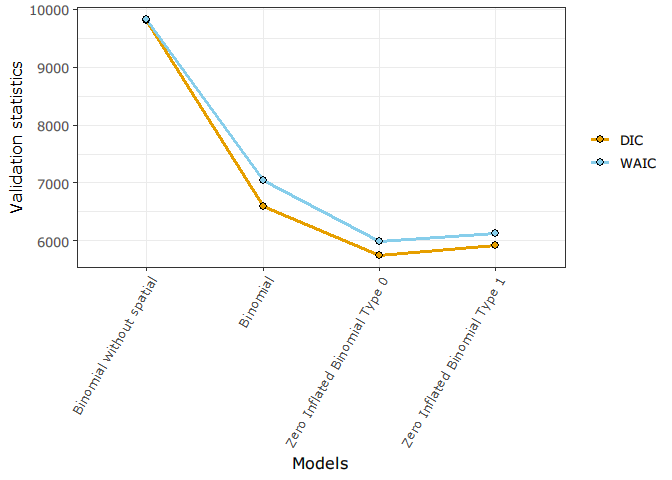
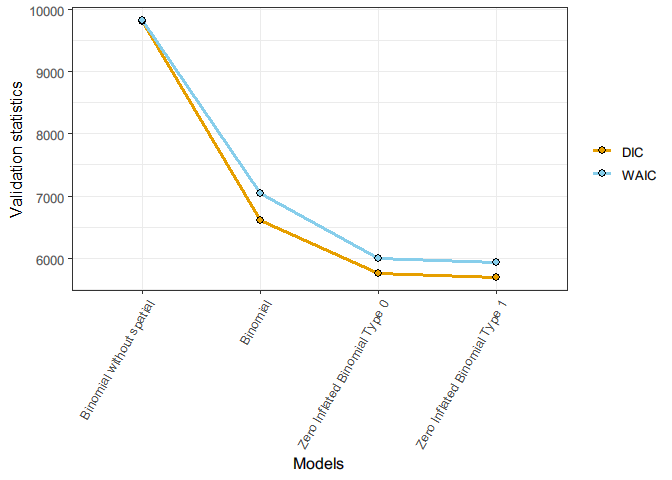
Update workbook 2 post peer review

diff --git a/codes/2.-model_selection_n_fitting.md b/codes/2.-model_selection_n_fitting.md
@@ -13,7 +13,7 @@ This script can be used for following purpose:
 ## Load libraries
 
 ``` r
-extrafont::loadfonts(device = "win")
+extrafont::loadfonts(device = "win", quiet = TRUE)
 ```
 
 ``` r
@@ -69,12 +69,11 @@ stack_data <- function(data, dp, cov_list){
 
 ``` r
 load("data/selected_covs_files_1km.RData")
+load("data/220511_output_model_selection.RData")
+
 data <- eth_prev2
 
 m <- getData(name = "GADM", country = "ETH", level = 0)
-# m <- m %>% st_as_sf()
-# pred_data <- selected_covariates
-# ra <- pred_data
 ```
 
 -   Test mesh for model selection
@@ -111,10 +110,6 @@ A <- inla.spde.make.A(mesh = mesh1, loc = as.matrix(coords)); dim(A)
 
 ``` r
 spde <- inla.spde2.matern(mesh1, alpha=2)
-# spde <- inla.spde2.pcmatern(mesh = mesh1, alpha = 2, constr = TRUE,
-#                             prior.range = c(15, 0.01), #P(range < 15000) = 0.01
-#                             prior.sigma = c(3, 0.01))  # P(sigma > 3) = 0.01
-
 iset <- inla.spde.make.index(name = "spatial.field", spde$n.spde)
 length(iset)
 ```
@@ -139,7 +134,6 @@ stk <- inla.stack(
 ``` r
 formula01 <-y ~ -1 + Intercept  # without spatial effect
 formula0 <-y ~ -1 + Intercept + f(spatial.field, model=spde)  # with spatial effect
-# + Soil_moisture + Flow_accumulation + near_river_DIVA + night_lights + mean_housing_2000_15 + Population_density + annual_diurnal_range + annual_precp + f(spatial.field, model=spde) 
 ```
 
 #### Binomial
@@ -164,7 +158,7 @@ model01.binom <- inla(formula01,
 toc()
 ```
 
-    ## 0.95 sec elapsed
+    ## 5.09 sec elapsed
 
 -   With spatial effect
 
@@ -186,7 +180,7 @@ model.binom <- inla(formula0,
 toc()
 ```
 
-    ## 7.37 sec elapsed
+    ## 21.79 sec elapsed
 
 #### Zero inflated binomial type I
 
@@ -208,7 +202,7 @@ model.zib0 <- inla(formula0,
 toc()
 ```
 
-    ## 4.98 sec elapsed
+    ## 21.99 sec elapsed
 
 #### Zero inflated binomial type II
 
@@ -231,7 +225,7 @@ model.zib1 <- inla(formula0,
 toc()
 ```
 
-    ## 26 sec elapsed
+    ## 123.22 sec elapsed
 
 ``` r
 model_stats <- tibble(Models = c("Binomial without spatial","Binomial", "Zero Inflated Binomial Type 0",
@@ -245,9 +239,9 @@ model_stats
     ##   Models                          DIC  WAIC
     ##   <chr>                         <dbl> <dbl>
     ## 1 Binomial without spatial      9807. 9817.
-    ## 2 Binomial                      6601. 7037.
+    ## 2 Binomial                      6602. 7037.
     ## 3 Zero Inflated Binomial Type 0 5747. 5991.
-    ## 4 Zero Inflated Binomial Type 1 5917. 6126.
+    ## 4 Zero Inflated Binomial Type 1 5692. 5932.
 
 ``` r
 model_stats_long <- model_stats %>% mutate(Models = as_factor(Models)) %>%
@@ -262,7 +256,7 @@ p <- ggplot(model_stats_long, aes(x=Models, y=values, group=validation_stats)) +
   scale_linetype_manual(values=c("solid", "solid")) +
   scale_color_manual(values = c("#E69F00", "skyblue")) +
   scale_fill_manual(values = c("#E69F00", "skyblue")) +
-theme_bw(base_family = "Verdana", base_size = 12) +
+theme_bw(base_family = "Arial", base_size = 12) +
   labs(y = "Validation statistics", color = "", linetype = "", fill = "") + theme(axis.text.x = element_text(angle = 60, hjust = 1)) #+ facet_wrap(~validation_stats, scales = "free") +
 p
 ```
@@ -399,11 +393,21 @@ for (i in 1:length(meshes)) {
   cat("\nIteration = ", i, "\n")
   print(Sys.time() - old)
 }
+```
 
+``` r
 df_1
 ```
 
-## Selection of environmental variables
+    ##   X Meshes      DIC     WAIC time_taken number_p
+    ## 1 1      1 5685.003 5925.979   1.215423      878
+    ## 2 2      2 4867.679 5060.077   2.643428     1827
+    ## 3 3      3 4566.985 4721.513  49.640810    27882
+    ## 4 4      4 4892.684 5074.225   3.377581     2004
+    ## 5 5      5 4572.737 4710.778   3.679938     3931
+    ## 6 6      6 4891.325 5104.871   5.327762     3197
+
+-   Mesh 5 selected ## Selection of environmental variables
 
 ``` r
 mesh <- mesh5
@@ -506,15 +510,7 @@ for(i in 1:length(covs_comb)){
 }
 ```
 
-    ## ========================================
-    ## Iteration =  1 
-    ## Time difference of 1.618573 mins
-    ## ========================================
-    ## Iteration =  2 
-    ## Time difference of 2.953607 mins
-
 ``` r
-model_selection <- data.frame(model_selection)
 model_selection
 ```
 
@@ -522,8 +518,8 @@ model_selection
     ## 1                                     slope + isothermality + precp_seasonality + NDVI_2003_11 + Population_density + dist_river_DIVA
     ## 2 slope + isothermality + precp_seasonality + NDVI_2003_11 + Population_density + dist_river_DIVA + Flow_accumulation + Soil_moisture
     ##               waic              dic
-    ## 1 4857.92552043144 4688.15728872514
-    ## 2 4749.85963023276 4612.35880456245
+    ## 1 4857.92234362589 4688.15551464129
+    ## 2 4749.85859506809 4612.35812741616
 
 ## K-fold cross validation between the candidate models
 
@@ -546,13 +542,12 @@ data$PREV <- data$CASES/data$N
 
 ### Model validation
 
--   Output RMSE and correlation ceofficient
+-   Output RMSE and correlation coefficient
 -   Output validation data with observed and predicted values
 
 ``` r
 library(dismo)
 fold <- 10 # specify fold
-# model <- 2 # specify model
 variables = 2
 pb = txtProgressBar(min = 0, max = fold, initial = 0) 
 output <- matrix(ncol=variables+2)
@@ -594,7 +589,7 @@ for (j in 1:length(formula)) {
     validation$rmse = sqrt(mean(validation$res^2, na.rm=TRUE)) 
     validation$cor = cor(obs_prev, tmp.mean, 
                          use="pairwise.complete.obs",
-                         method="spearman")
+                         method="pearson")
     output <- bind_rows(output, (data.frame(Model = j, Fold = i, RMSE = validation$rmse, Correlation.coefficient = validation$cor))) 
     
     if(i == 1){
@@ -628,20 +623,20 @@ for (j in 1:length(formula)) {
     models
 
 ``` r
-load("data/211231_output_cross_val.RData")
-
 output %>% head()
 ```
 
-    ##   Model Fold      RMSE Correlation.coefficient
-    ## 2     1    1 0.1357886               0.6099237
-    ## 3     1    2 0.1119559               0.6410497
-    ## 4     1    3 0.1565031               0.6387597
-    ## 5     1    4 0.1394674               0.4973210
-    ## 6     1    5 0.1332283               0.6323068
-    ## 7     1    6 0.1169957               0.6370246
+    ##   Model Fold      RMSE Correlation.coefficient model_names
+    ## 2     1    1 0.1357886               0.6099237     Model 0
+    ## 3     1    2 0.1119559               0.6410497     Model 0
+    ## 4     1    3 0.1565031               0.6387597     Model 0
+    ## 5     1    4 0.1394674               0.4973210     Model 0
+    ## 6     1    5 0.1332283               0.6323068     Model 0
+    ## 7     1    6 0.1169957               0.6370246     Model 0
 
 ``` r
+output <- output %>% na.omit()
+
 object_cor_combined %>% head()
 ```
 
@@ -668,20 +663,20 @@ cor_coff <- output %>% mutate(model_names = fct_reorder(model_names, Correlation
   ggplot( aes(x=model_names, y=Correlation.coefficient, fill = model_names, alpha = 0.7)) +
     geom_boxplot(outlier.shape = NA, width = 0.6) +
     geom_point(shape = 21, fill = "white", color = "black", size = 2, alpha = 0.5) + #geom_jitter(color="black", size=2, alpha=0.9) +
-    theme_bw(base_family = "Verdana") +
+    theme_bw(base_family = "Arial") +
     theme(
       legend.position="none",
       plot.title = element_text(size=11)
     ) +
     xlab("Models") + ylab("Correlation coefficient") + ylim(c(0.3,.8))
 
-output$RMSE <- output$RMSE * 100  # multiplied as prevalence is expressed as percentage in the model output
+output$RMSE <- output$RMSE*100  # multiplied as prevalence is expressed as percentage in the model output
 
 RMSE <- output %>% mutate(model_names = fct_reorder(model_names, RMSE, .desc = T)) %>% 
   ggplot( aes(x=model_names, y=RMSE, fill = model_names, alpha = 0.7)) +
     geom_boxplot(outlier.shape = NA, width = 0.6) +
     geom_point(shape = 21, fill = "white", color = "black", size = 2, alpha = 0.5) + #geom_jitter(color="black", size=2, alpha=0.9) +
-    theme_bw(base_family = "Verdana") +
+    theme_bw(base_family = "Arial") +
     theme(
       legend.position="none",
       plot.title = element_text(size=11)
@@ -689,97 +684,11 @@ RMSE <- output %>% mutate(model_names = fct_reorder(model_names, RMSE, .desc = T
     xlab("Models") + ylab("RMSE") + ylim(c(8,16))
 
 CV_plot <- plot_grid(cor_coff, RMSE, nrow = 1, labels = "AUTO")
-```
 
-    ## Warning in grid.Call(C_stringMetric, as.graphicsAnnot(x$label)): font family
-    ## 'Verdana' not found in PostScript font database
-
-    ## Warning in grid.Call(C_stringMetric, as.graphicsAnnot(x$label)): font family
-    ## 'Verdana' not found in PostScript font database
-
-    ## Warning in grid.Call(C_stringMetric, as.graphicsAnnot(x$label)): font family
-    ## 'Verdana' not found in PostScript font database
-
-    ## Warning in grid.Call(C_stringMetric, as.graphicsAnnot(x$label)): font family
-    ## 'Verdana' not found in PostScript font database
-
-    ## Warning in grid.Call(C_stringMetric, as.graphicsAnnot(x$label)): font family
-    ## 'Verdana' not found in PostScript font database
-
-    ## Warning in grid.Call(C_stringMetric, as.graphicsAnnot(x$label)): font family
-    ## 'Verdana' not found in PostScript font database
-
-    ## Warning in grid.Call(C_stringMetric, as.graphicsAnnot(x$label)): font family
-    ## 'Verdana' not found in PostScript font database
-
-    ## Warning in grid.Call(C_stringMetric, as.graphicsAnnot(x$label)): font family
-    ## 'Verdana' not found in PostScript font database
-
-    ## Warning in grid.Call(C_stringMetric, as.graphicsAnnot(x$label)): font family
-    ## 'Verdana' not found in PostScript font database
-
-    ## Warning in grid.Call(C_stringMetric, as.graphicsAnnot(x$label)): font family
-    ## 'Verdana' not found in PostScript font database
-
-    ## Warning in grid.Call(C_stringMetric, as.graphicsAnnot(x$label)): font family
-    ## 'Verdana' not found in PostScript font database
-
-    ## Warning in grid.Call(C_stringMetric, as.graphicsAnnot(x$label)): font family
-    ## 'Verdana' not found in PostScript font database
-
-    ## Warning in grid.Call(C_stringMetric, as.graphicsAnnot(x$label)): font family
-    ## 'Verdana' not found in PostScript font database
-
-    ## Warning in grid.Call(C_stringMetric, as.graphicsAnnot(x$label)): font family
-    ## 'Verdana' not found in PostScript font database
-
-    ## Warning in grid.Call(C_stringMetric, as.graphicsAnnot(x$label)): font family
-    ## 'Verdana' not found in PostScript font database
-
-    ## Warning in grid.Call(C_stringMetric, as.graphicsAnnot(x$label)): font family
-    ## 'Verdana' not found in PostScript font database
-
-    ## Warning in grid.Call(C_stringMetric, as.graphicsAnnot(x$label)): font family
-    ## 'Verdana' not found in PostScript font database
-
-    ## Warning in grid.Call(C_stringMetric, as.graphicsAnnot(x$label)): font family
-    ## 'Verdana' not found in PostScript font database
-
-    ## Warning in grid.Call(C_stringMetric, as.graphicsAnnot(x$label)): font family
-    ## 'Verdana' not found in PostScript font database
-
-    ## Warning in grid.Call(C_stringMetric, as.graphicsAnnot(x$label)): font family
-    ## 'Verdana' not found in PostScript font database
-
-    ## Warning in grid.Call(C_stringMetric, as.graphicsAnnot(x$label)): font family
-    ## 'Verdana' not found in PostScript font database
-
-    ## Warning in grid.Call(C_stringMetric, as.graphicsAnnot(x$label)): font family
-    ## 'Verdana' not found in PostScript font database
-
-    ## Warning in grid.Call(C_stringMetric, as.graphicsAnnot(x$label)): font family
-    ## 'Verdana' not found in PostScript font database
-
-    ## Warning in grid.Call(C_stringMetric, as.graphicsAnnot(x$label)): font family
-    ## 'Verdana' not found in PostScript font database
-
-    ## Warning in grid.Call(C_stringMetric, as.graphicsAnnot(x$label)): font family
-    ## 'Verdana' not found in PostScript font database
-
-    ## Warning in grid.Call(C_stringMetric, as.graphicsAnnot(x$label)): font family
-    ## 'Verdana' not found in PostScript font database
-
-    ## Warning in grid.Call(C_stringMetric, as.graphicsAnnot(x$label)): font family
-    ## 'Verdana' not found in PostScript font database
-
-    ## Warning in grid.Call(C_stringMetric, as.graphicsAnnot(x$label)): font family
-    ## 'Verdana' not found in PostScript font database
-
-``` r
 CV_plot
 ```
 
-![](2.-model_selection_n_fitting_files/figure-markdown_github/unnamed-chunk-23-1.png)
+![](2.-model_selection_n_fitting_files/figure-markdown_github/unnamed-chunk-25-1.png)
 
 -   This concludes that the `Model 2` is the best model which has the
     following formula:
@@ -789,3 +698,52 @@ CV_plot
     y ~ 0 + Intercept + slope + isothermality + precp seasonality + 
         NDVI_2003_11 + dist_river_DIVA + Flow_accumulation + Soil_moisture + 
         Population_density + f(spatial.field, model = spde)
+
+### Testing model distribution with full set of covariates
+
+``` r
+models <- c("zeroinflated.binomial.1", "zeroinflated.binomial.0", "binomial")
+## SPDE mesh
+
+## Formula
+varlist <- c("slope", "isothermality", "precp_seasonality",
+             "NDVI_2003_11", "dist_river_DIVA", "Population_density",
+             "Flow_accumulation", "Soil_moisture") 
+
+predterms <- formula2
+```
+
+``` r
+pb = txtProgressBar(min = 0, max = length(models), initial = 0) 
+
+DICWAIC_table <- data.frame(model_names = NA, DIC = NA, WAIC = NA)
+
+old <- Sys.time()
+for(i in 1:length(models)){
+  set.seed(12345)
+  inla.setOption(num.threads = 12)
+  model1<-inla(predterms,
+            family = models[i], Ntrials = numtrials,
+            data = inla.stack.data(stk, spde = spde),
+            control.family = list(link = "logit"),
+            control.compute = list(dic = TRUE, waic = TRUE,
+                                   cpo = TRUE, config = TRUE,
+                                   openmp.strategy="huge"),
+            control.predictor = list(
+              compute = TRUE, link = 1,
+              A = inla.stack.A(stk)))
+  DICWAIC_table[i, ] <- c(models[i], model1$dic$dic, model1$waic$waic)
+   setTxtProgressBar(pb,i)
+  cat("\nIteration = ", i, "\n")
+  print(Sys.time() - old)
+}
+```
+
+``` r
+DICWAIC_table
+```
+
+    ##               model_names              DIC             WAIC
+    ## 1 zeroinflated.binomial.1 4612.35840189975 4749.85906106154
+    ## 2 zeroinflated.binomial.0 4680.89087981266 4797.75872639526
+    ## 3                binomial 4789.28027877606  5165.6417796892
